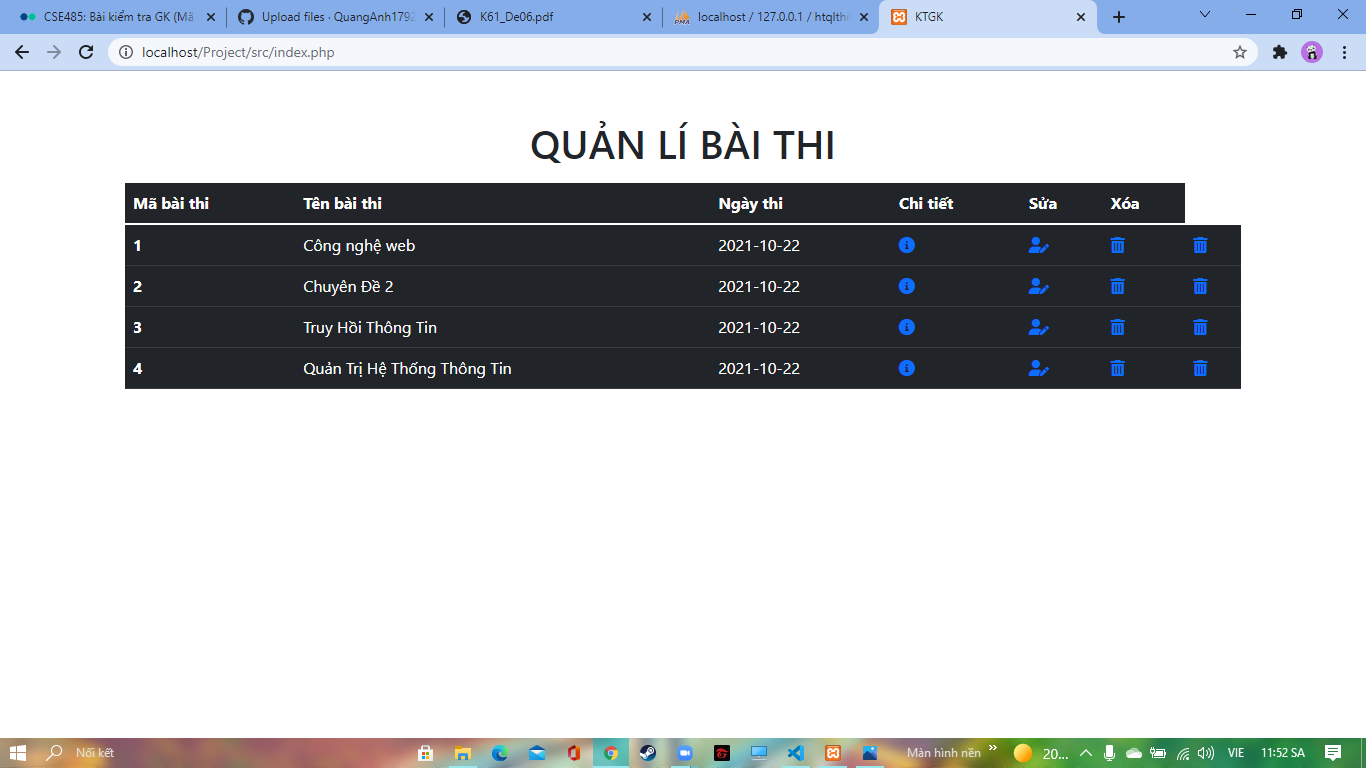
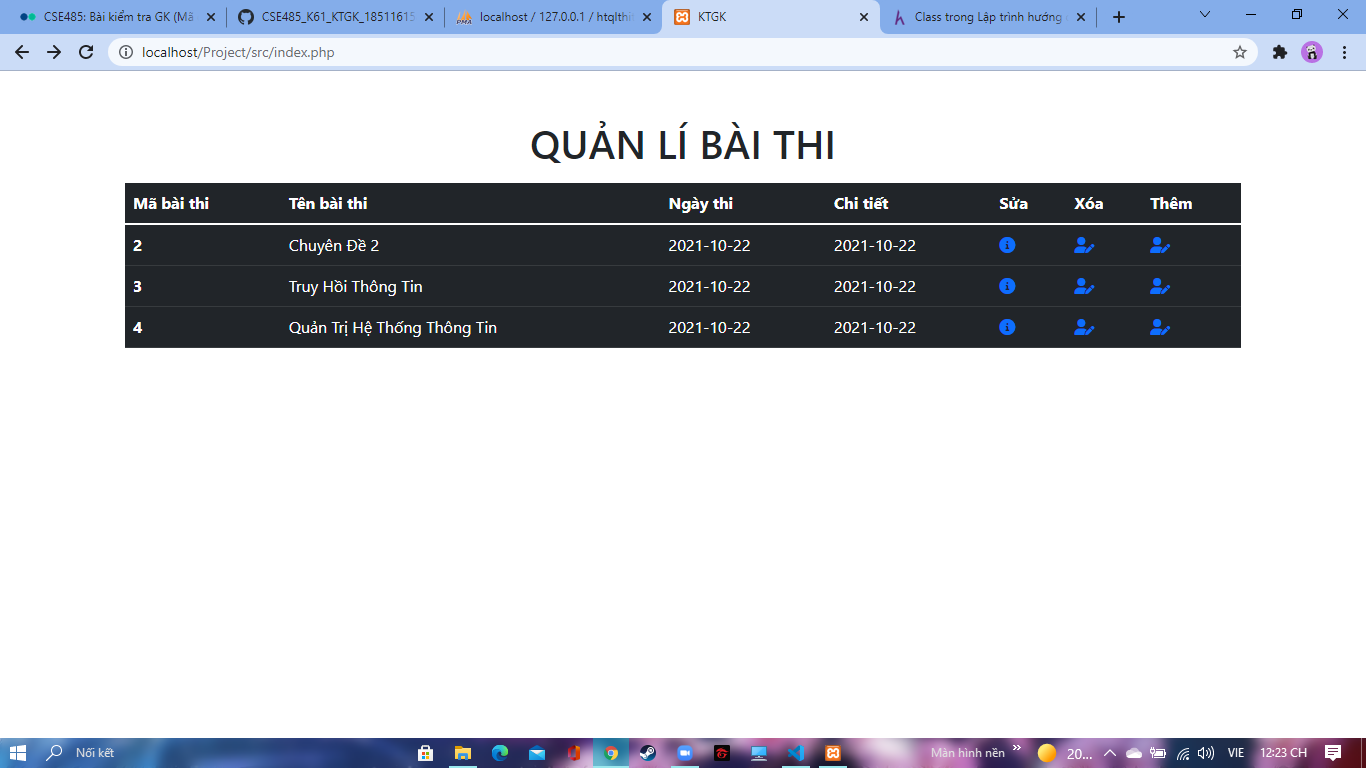
Add files via upload

diff --git a/Project/src/index.php b/Project/src/index.php
@@ -3,7 +3,7 @@ include './same/header.php';
 ?>
 <main class="container mt-5">
     <h1 class= ' text-center text-dark mt-5 '>QUẢN LÍ BÀI THI</h1>
-    <a href="them.php" class= "btn btn-dark bg-danger text-white ">Thêm Thông tin <i class="fa-solid fa-user-plus"></i></a>
+    
     <table class="table table-dark mt-3">
         <thead>
             <tr>
@@ -13,6 +13,7 @@ include './same/header.php';
             <th scope="col">Chi tiết</th>
             <th scope="col">Sửa</th>
             <th scope="col">Xóa</th>
+            <th scope="col">Thêm</th>
             </tr>
         </thead>
         <tbody>
@@ -24,12 +25,14 @@ include './same/header.php';
                 {
                     while($row= mysqli_fetch_assoc($result)){
                         echo '<tr>';
-                        echo '<th scope="row">'.$row['id'].'</th>';
-                        echo '<td>'.$row['exam_title'].'</td>';
-                        echo '<td>'.$row['exam_datetime'].'</td>';
-                        echo '<td><a href="chitiet.php?id='.$row['id'].'"><i class="fa-solid fa-circle-info"></i></a></td>';
-                        echo '<td><a href="sua.php?id='.$row['id'].'"><i class="fas fa-user-edit"></i></a></td>';
-                        echo '<td><a href="xoa.php?id='.$row['id'].'"><i class="fas fa-trash-alt"></i></a></td>';
+                            echo '<th scope="row">'.$row['id'].'</th>';
+                            echo '<td>'.$row['exam_title'].'</td>';
+                            echo '<td>'.$row['exam_datetime'].'</td>';
+                            echo '<td>'.$row['exam_datetime'].'</td>';
+                            
+                            echo '<td><a href="chitiet.php?id='.$row['id'].'"><i class="fa-solid fa-circle-info"></i></a></td>';
+                            echo '<td><a href="sua.php?id='.$row['id'].'"><i class="fas fa-user-edit"></i></a></td>';
+                            echo '<td><a href="them.php?id='.$row['id'].'"><i class="fas fa-user-edit"></i></a></td>';
                         echo '</tr>';
                     }
                 }
